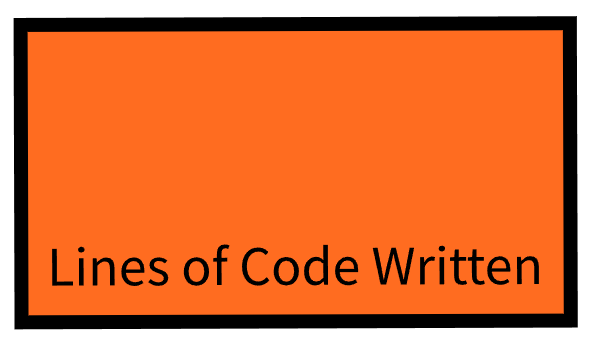
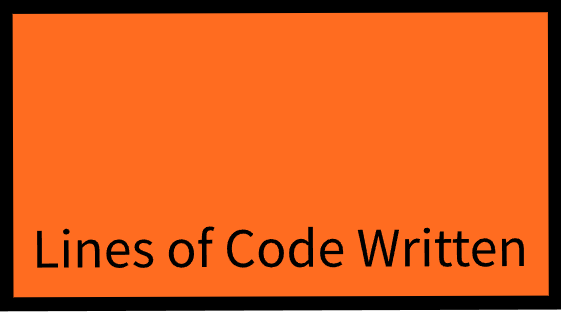
finally got the image properly creating

Changed region(s): [[0.0, 0.0, 1.0, 1.0]]

diff --git a/stats_tracker/html-to-img.py b/stats_tracker/html-to-img.py
@@ -1,7 +1,32 @@
 import imgkit
+import os
+import sys
 
-with open('loc.svg') as f:
-  options = {
-    "enable-local-file-access": ""
+my_path = os.path.abspath("background.png")
+
+value = sys.argv[1]
+
+f = f"""
+<style>
+    @import url('https://fonts.googleapis.com/css2?family=Source+Code+Pro:ital,wght@0,700;1,700&display=swap');
+    * {{
+        margin: 0px;
+        font-family: "Source Code Pro";
+        font-optical-sizing: auto;
+        font-weight: 700;
+        font-style: normal;
+    }}
+</style>
+<div style="width:300px">
+    <img width="300px" src="{my_path}">
+    <div style="font-size:65px; position: absolute; top: 20px; left: 0px; width: 300px;">
+        <div style="margin-left: auto; margin-right: auto; width: min; text-align: center;">{value}</div>
+</div>
+"""
+
+options = {
+    "enable-local-file-access": "",
+    "width": "300",
+    "height": "163"
   }
-  imgkit.from_file(f, 'build/loc.png', options)
+imgkit.from_string(f, 'build/loc.png', options)
